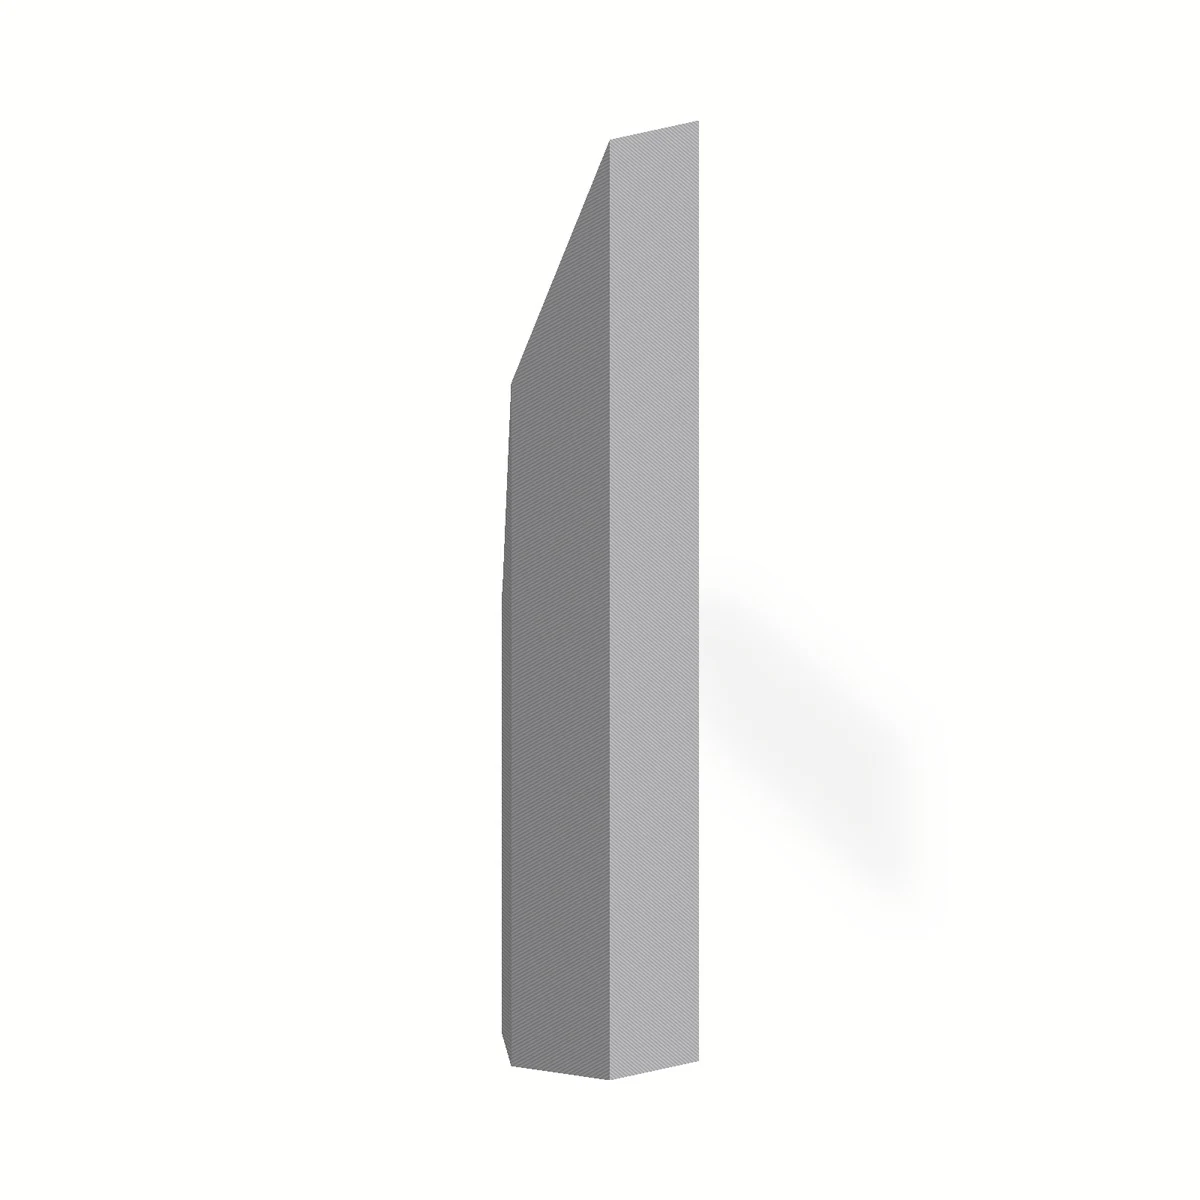
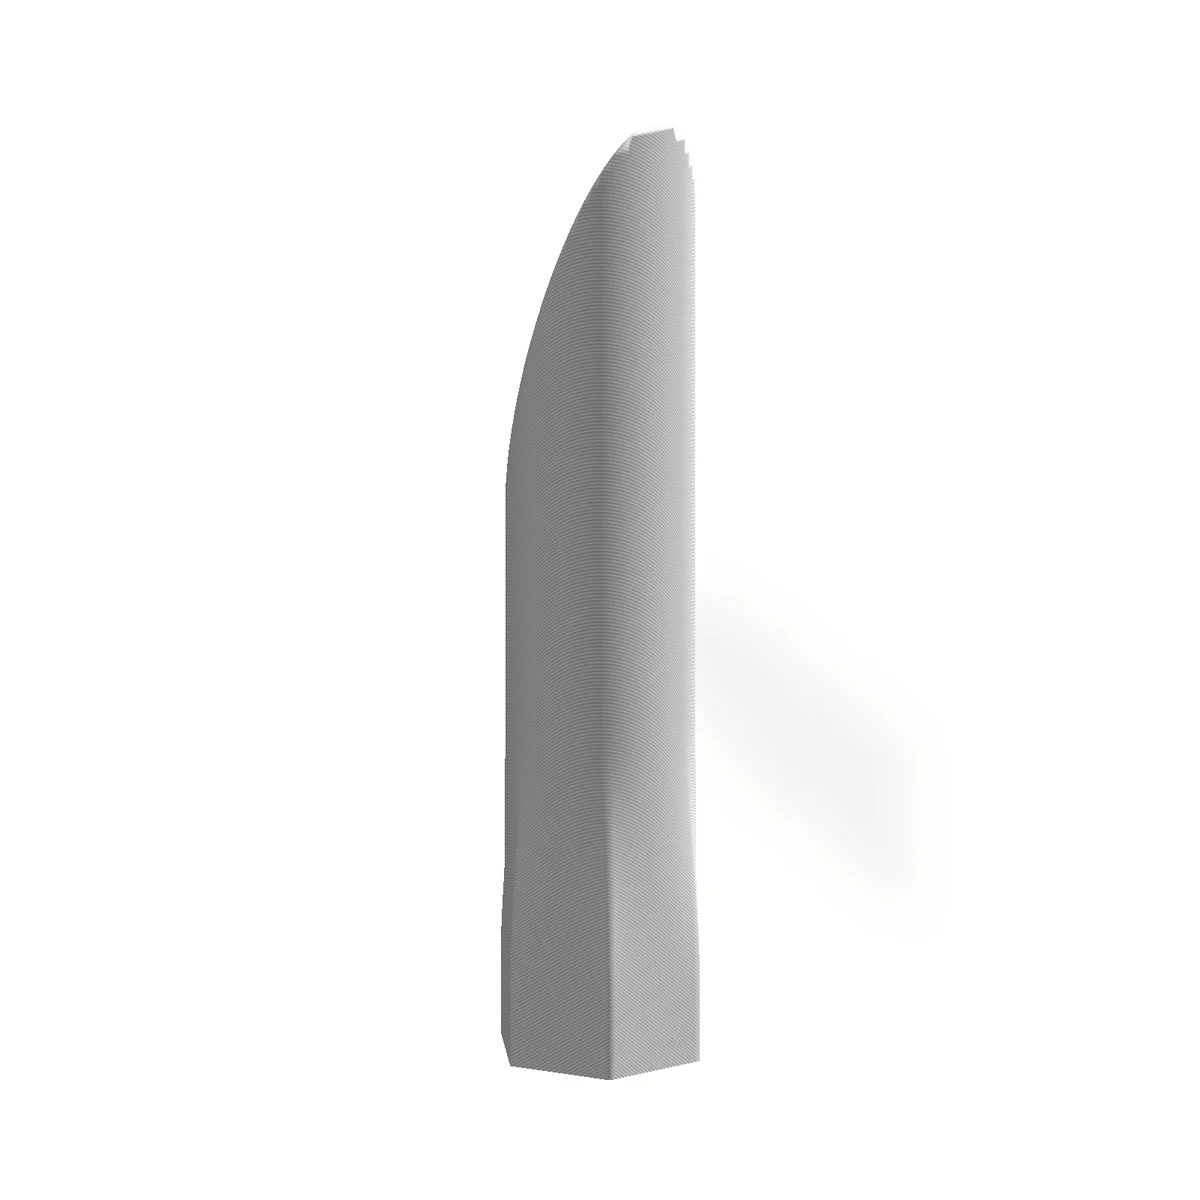
六角土入れスコップをv3（底のみ六角・ロゴ無し）の画像と説明に更新

diff --git a/app/lib/products.ts b/app/lib/products.ts
@@ -327,11 +327,11 @@ export const PRODUCTS: Product[] = [
     image: "/products/product-hexscoop-black.webp",
     baseUrl: `${SHOP}/items/159719039`,
     summary:
-      "六角鉢シリーズとおそろいの六角柱スコップ。底のふるい穴で微塵だけを落とせます。対辺約38mm・全長約200mm。PLA樹脂・3Dプリント製、4色。",
+      "六角鉢シリーズとおそろいの、底が六角形の土入れスコップ。底のふるい穴で微塵だけを落とせます。対辺約38mm・全長約200mm。PLA樹脂・3Dプリント製、4色。",
     lead:
-      "筒を斜めに切った形なので、鉢の縁に沿わせてすくった土をこぼさず入れられます。底にはφ2.5mmのふるい穴。すくった土を軽く振ると、根腐れの原因になる微塵だけが底から落ちます。裏面にZUKEロゴを刻印。六角形なので机に置いても転がりません。",
+      "筒を斜めに切った形なので、鉢の縁に沿わせてすくった土をこぼさず入れられます。底にはφ2.5mmのふるい穴。すくった土を軽く振ると、根腐れの原因になる微塵だけが底から落ちます。底が六角形なので机に置いても転がりません。",
     height: "全長 約200mm／開口 約110mm",
-    width: "対辺 約38mm／壁厚 1.6mm",
+    width: "底 対辺約38mm・筒 φ約38mm／壁厚 1.6mm",
     weight: "約40g",
     material: "PLA樹脂（3Dプリント・マット仕上げ）",
     plants: ["植え替え・増し土・化粧砂の投入に"],
